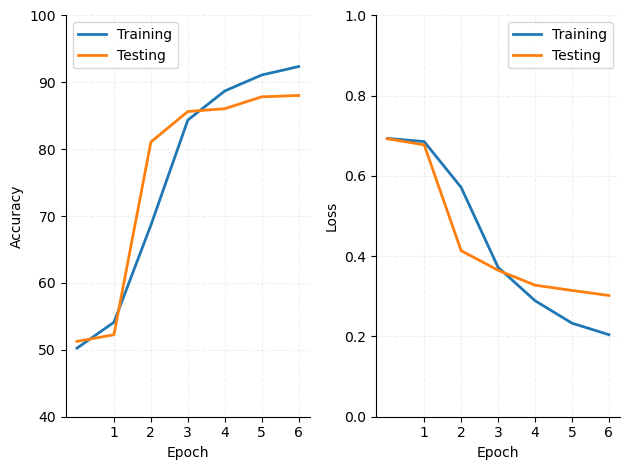
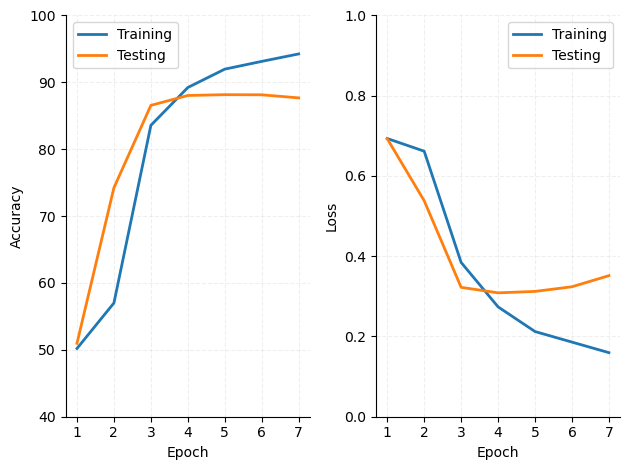
Graph xticks were messed up

diff --git a/sent_analysis.py b/sent_analysis.py
@@ -108,17 +108,17 @@ axes[1].set_xlabel("Epoch")
 axes[1].set_ylabel("Loss")
 axes[1].grid(axis="both", ls="--", alpha=0.2)
 
-axes[0].set_xticks(range(1, epochs+1))
-axes[1].set_xticks(range(1, epochs+1))
+axes[0].set_xticks(range(1, epochs + 1))
+axes[1].set_xticks(range(1, epochs + 1))
 
 axes[0].set_ylim(40, 100)
 axes[1].set_ylim(0, 1)
 
-axes[0].plot(range(epochs), training_accs, lw=2, label="Training")
-axes[0].plot(range(epochs), testing_accs, lw=2, label="Testing")
+axes[0].plot(range(1, epochs + 1), training_accs, lw=2, label="Training")
+axes[0].plot(range(1, epochs + 1), testing_accs, lw=2, label="Testing")
 
-axes[1].plot(range(epochs), training_losses, lw=2, label="Training")
-axes[1].plot(range(epochs), testing_losses, lw=2, label="Testing")
+axes[1].plot(range(1, epochs + 1), training_losses, lw=2, label="Training")
+axes[1].plot(range(1, epochs + 1), testing_losses, lw=2, label="Testing")
 
 axes[0].legend()
 axes[1].legend()
